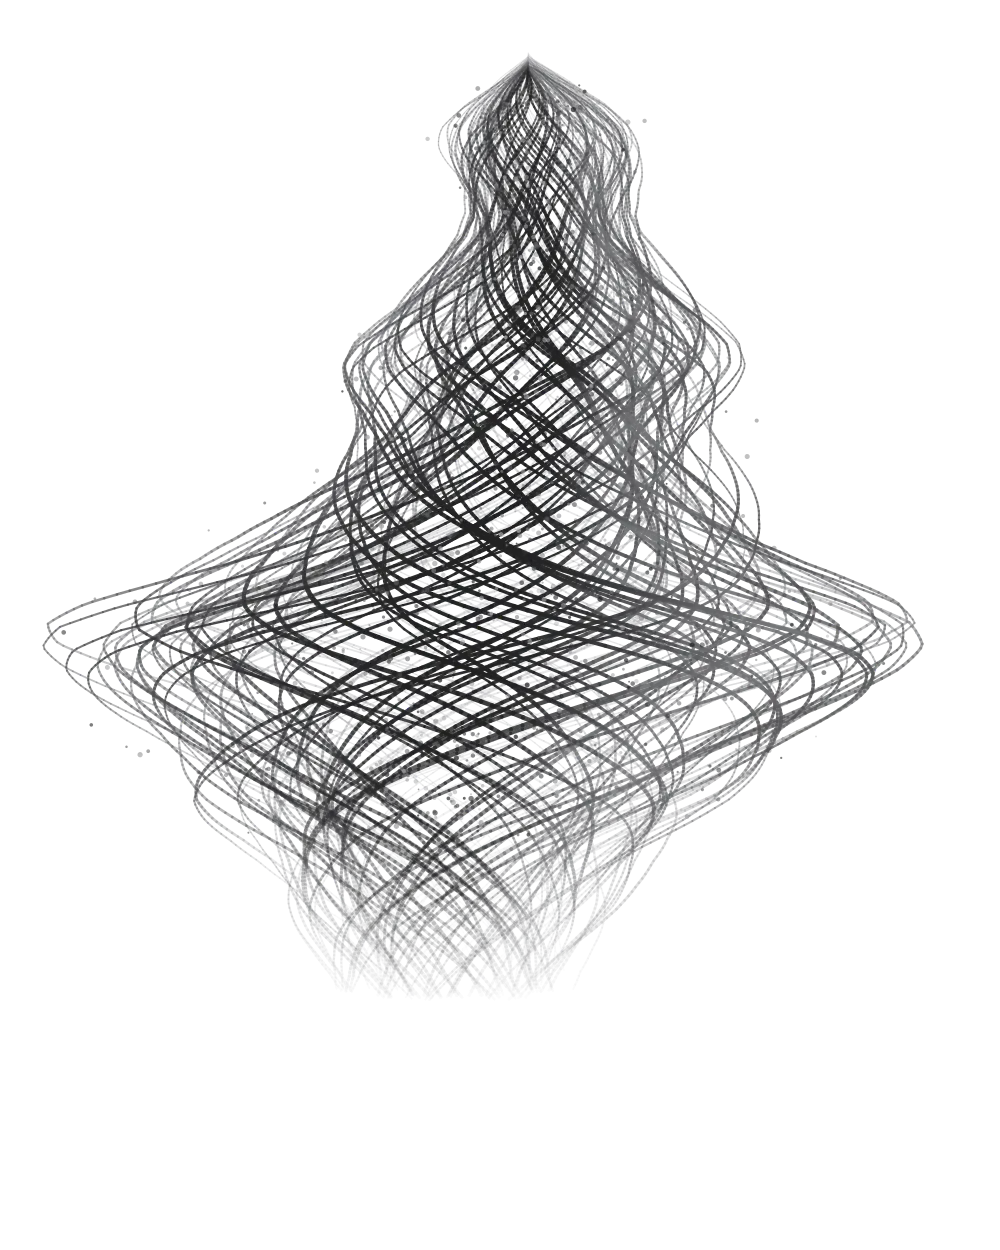
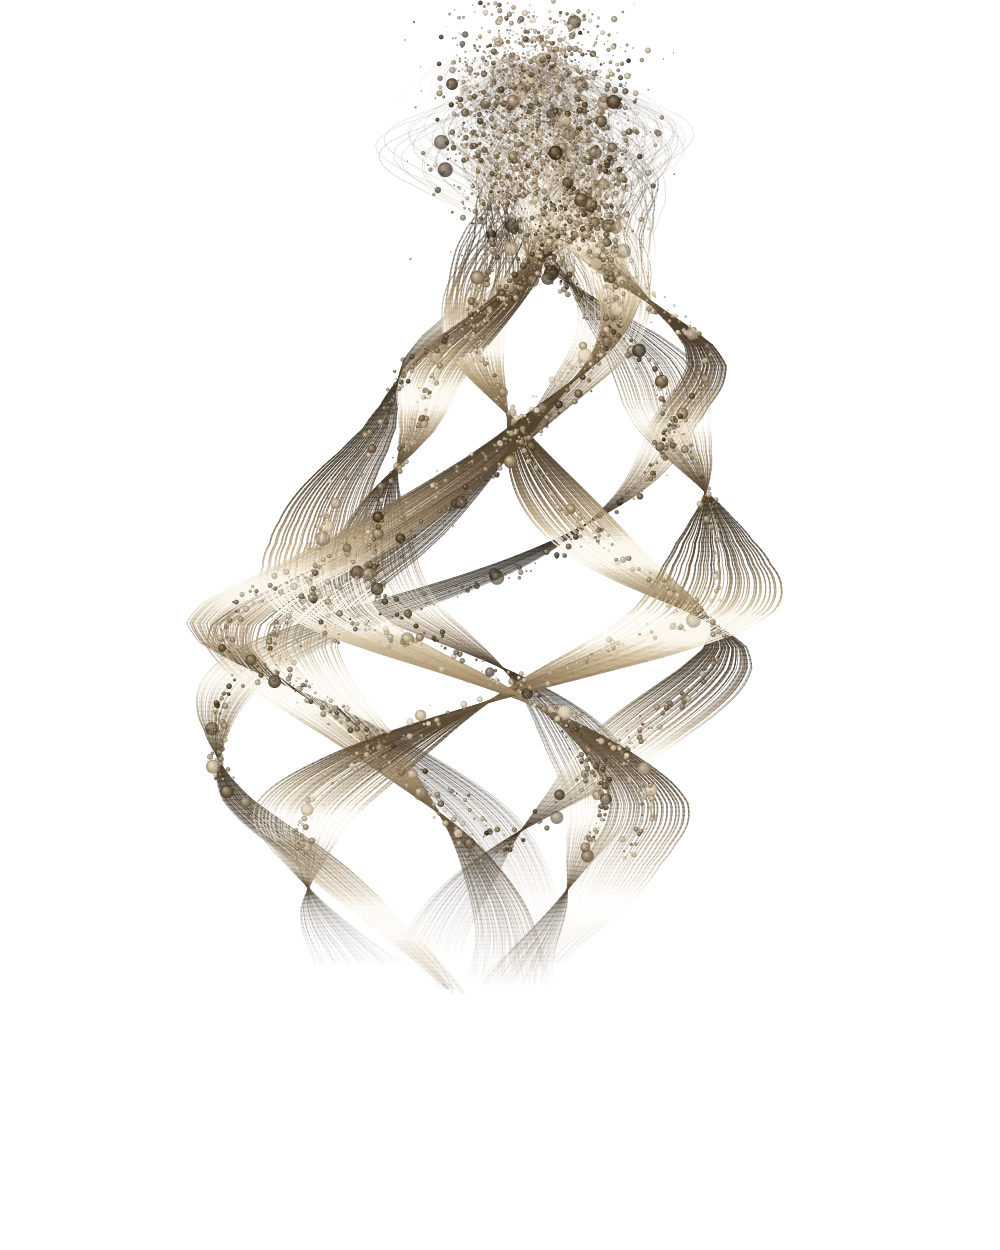
feat: draw the hero sculpture in champagne gold, as silk ribbon and grains
The grey wire read as a placeholder next to the sculpture the hero was
designed around. The form is now seven ribbons of fine gold strands that turn
face-on and edge-on as they twist, catch a sheen where they face the light,
and come apart into lit grains and a fine spray at both ends. It is still
shaped by the year of contributions.

Each theme draws from the part of the gold ramp that reads against its page,
and the sculpture is scaled to sit inside the frame.

Changed region(s): [[0.031, 0.0, 0.93, 0.78]]

diff --git a/README.md b/README.md
@@ -105,8 +105,9 @@ follow the site's theme switch and keep the tenure current. The footer credits
 the author.
 
 The image is not stock. `scripts/make-sculpture.mjs` draws it from the same
-contribution feed as `/activity`: seven bundles of wire twisting through the last
-53 weeks, the whole form swelling in the busy weeks and narrowing in the quiet ones. It writes a wide and a tall
+contribution feed as `/activity`: seven ribbons of fine champagne-gold strands
+twisting through the last 53 weeks and coming apart into grains at both ends, the
+whole form swelling in the busy weeks and narrowing in the quiet ones. It writes a wide and a tall
 (phone) version for each theme to `public/images/sculpture/`. The deploy redraws
 it from that day's feed before building, and ships the committed images if the
 feed is down. To redraw it locally:
